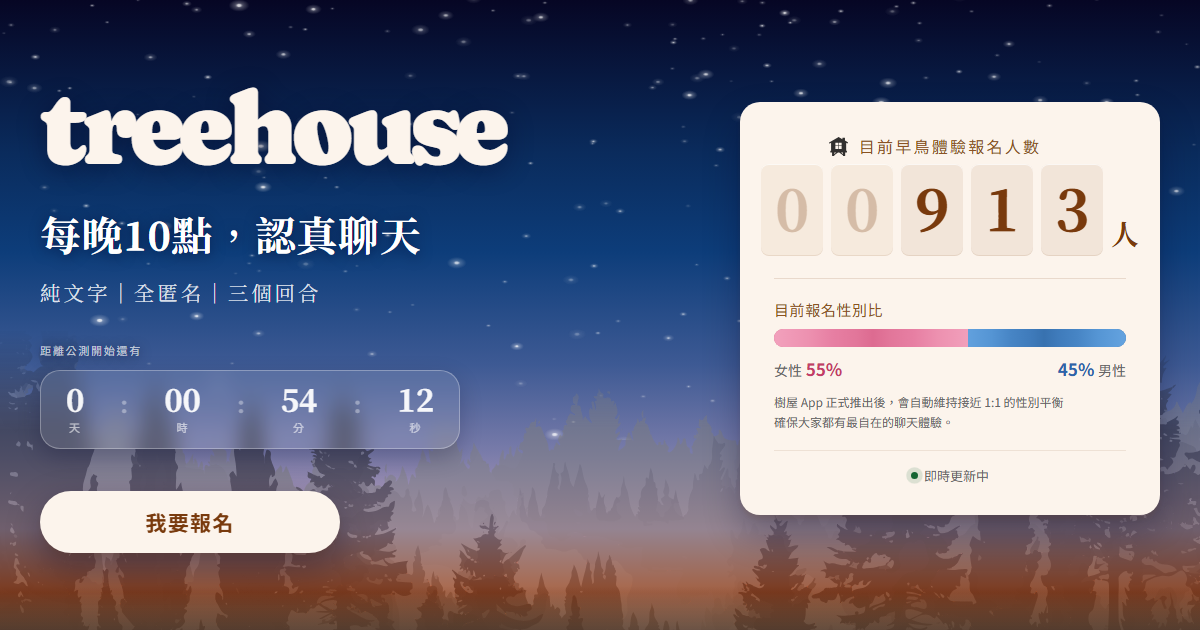
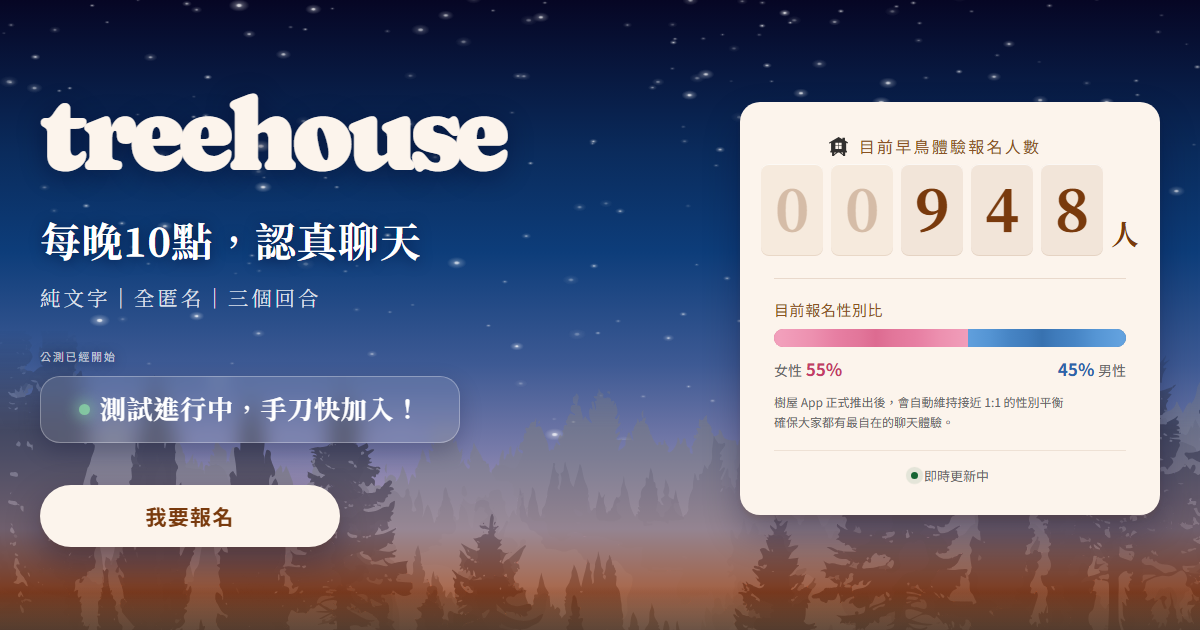
chore(join): re-shoot the share card in the live state
The 12:00 switch made the previous card wrong in a way no number could fix: it
baked in a countdown while the page it links to now says 公測已經開始. Re-shot
at 948 signups showing 55/45 and the live banner, so the card and the landing
page finally agree.

Also the first card to include the banner overflow fix, so the exclamation mark
sits inside its pill.

baseValue and the static counter follow at 948.

diff --git a/join/index.html b/join/index.html
@@ -102,8 +102,8 @@
             <span><img class="signboard__mark" src="/assets/img/house-mark.svg" alt="" width="15" height="15">目前早鳥體驗報名人數</span>
           </p>
           <p class="signboard__count">
-            <span class="odo" id="signupNumber" role="img" aria-label="913" data-value="913">
-              <b class="odo__d odo__d--lead">0</b><b class="odo__d odo__d--lead">0</b><b class="odo__d">9</b><b class="odo__d">1</b><b class="odo__d">3</b>
+            <span class="odo" id="signupNumber" role="img" aria-label="948" data-value="948">
+              <b class="odo__d odo__d--lead">0</b><b class="odo__d odo__d--lead">0</b><b class="odo__d">9</b><b class="odo__d">4</b><b class="odo__d">8</b>
             </span>
             <span class="signboard__unit">人</span>
           </p>

diff --git a/assets/join.config.js b/assets/join.config.js
@@ -20,7 +20,7 @@ window.JOIN_CONFIG = {
     // 明顯是錯的。現在改成每次跑 tools/build-og-image.sh 重截分享卡時自動對齊當下真值
     // （腳本會讀 __JOIN_DEBUG__.lastGoodFetch.sheet），所以這裡通常不用手改。
     // 要調整起算人數仍然是改 Sheet 的 B2。
-    baseValue: 913,
+    baseValue: 948,
     round: "floor",             // "floor" 無條件捨去到整數；"none" 不處理（Sheet 應該本來就是整數）
 
     // ⚠ 這份試算表會被公開讀取（Google 的 gviz 端點要求整份表可公開存取）。
